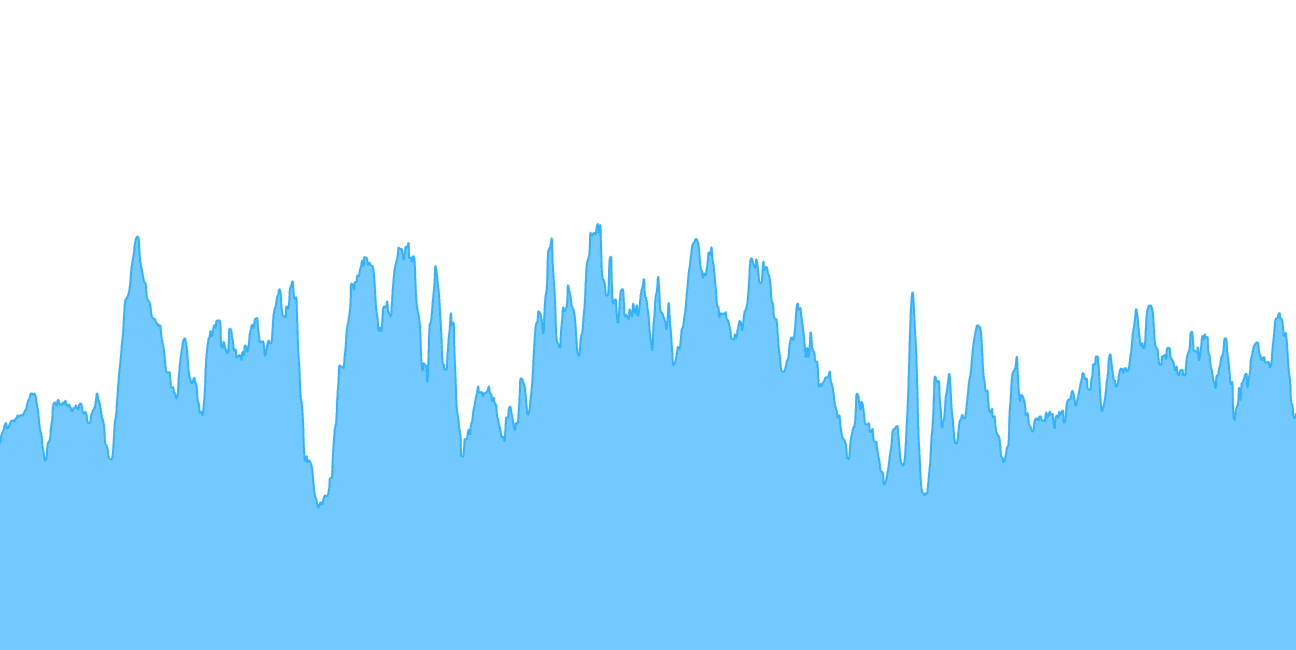
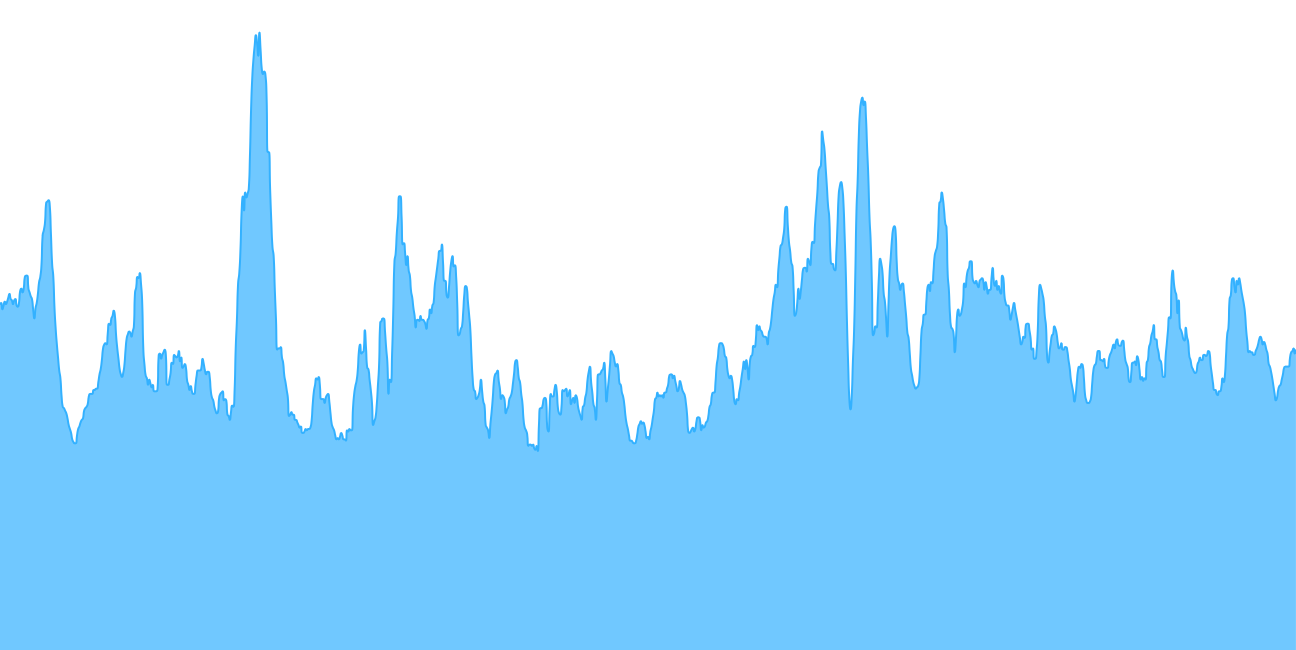
fix: inputs per transactions chart
This chart had multiple problems which are fixed here:
- we were dividing tx/inputs, but it should have been inputs/tx
- we were multiplying with 100
- we were using areaPercentageChart

closes 141

Changed region(s): [[0.0, 0.0615, 1.0, 0.7692]]

diff --git a/frontend/static/js/charts/inputs-per-transaction.js b/frontend/static/js/charts/inputs-per-transaction.js
@@ -2,7 +2,7 @@ const ANNOTATIONS = []
 const MOVING_AVERAGE_DAYS = MOVING_AVERAGE_7D
 const NAME = "inputs per transaction"
 const PRECISION = 2
-let START_DATE =  new Date();
+let START_DATE = new Date();
 START_DATE.setFullYear(new Date().getFullYear() - 3);
 
 const CSVs = [
@@ -15,12 +15,12 @@ function preprocess(input) {
   let data = { date: [], y: [] }
   for (let i = 0; i < input[0].length; i++) {
     data.date.push(+(new Date(input[0][i].date)))
-    const y = parseFloat(input[2][i].transactions_sum) / parseFloat(input[1][i].inputs_sum) || 0
-    data.y.push(y*100)
+    const y = parseFloat(input[1][i].inputs_sum) / parseFloat(input[2][i].transactions_sum) || 0
+    data.y.push(y)
   }
   return data
 }
 
 function chartDefinition(d, movingAverage) {
-  return areaPercentageChart(d, NAME, movingAverage, PRECISION, START_DATE, ANNOTATIONS);
+  return lineChart(d, NAME, movingAverage, PRECISION, START_DATE, ANNOTATIONS);
 }